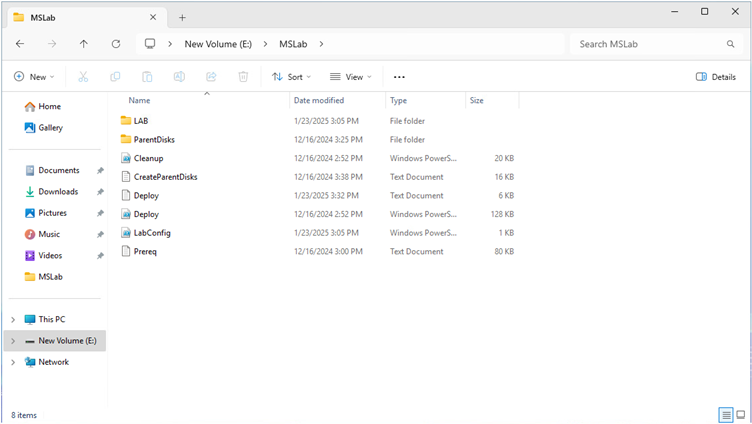
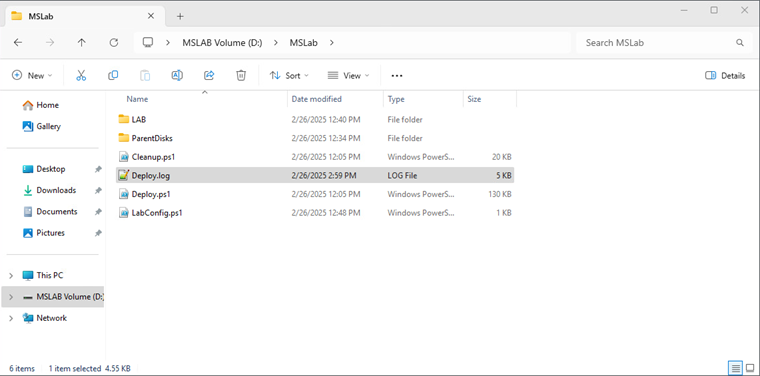
fixes

diff --git a/lab-guides/01a-AzureLocalCloudDeployment-SimplifiedLab/readme.md b/lab-guides/01a-AzureLocalCloudDeployment-SimplifiedLab/readme.md
@@ -76,7 +76,7 @@ If you open Hyper-V manager, you will notice, that there are several Virtual Mac
 ![](./media/hvmanager01.png)
 
 
-Note: the Virtual machines are located in folder MSLab on Volume E:
+Note: the Virtual machines are located in folder MSLab on Volume D:
 
 ![](./media/explorer01.png)
 
